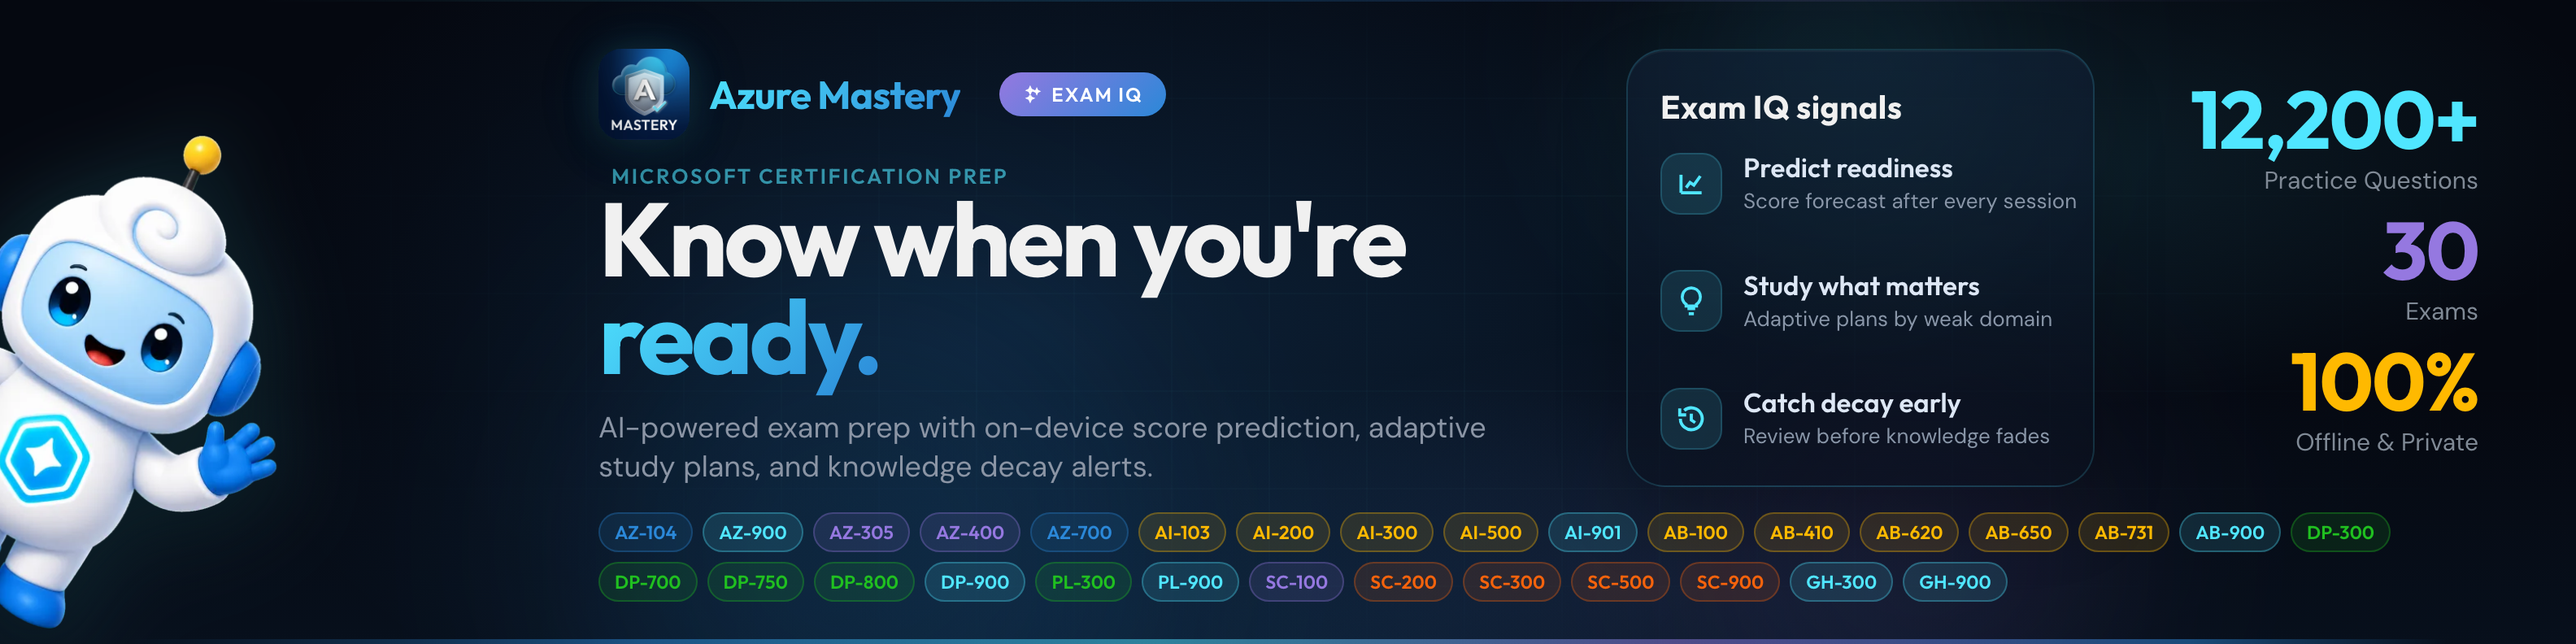
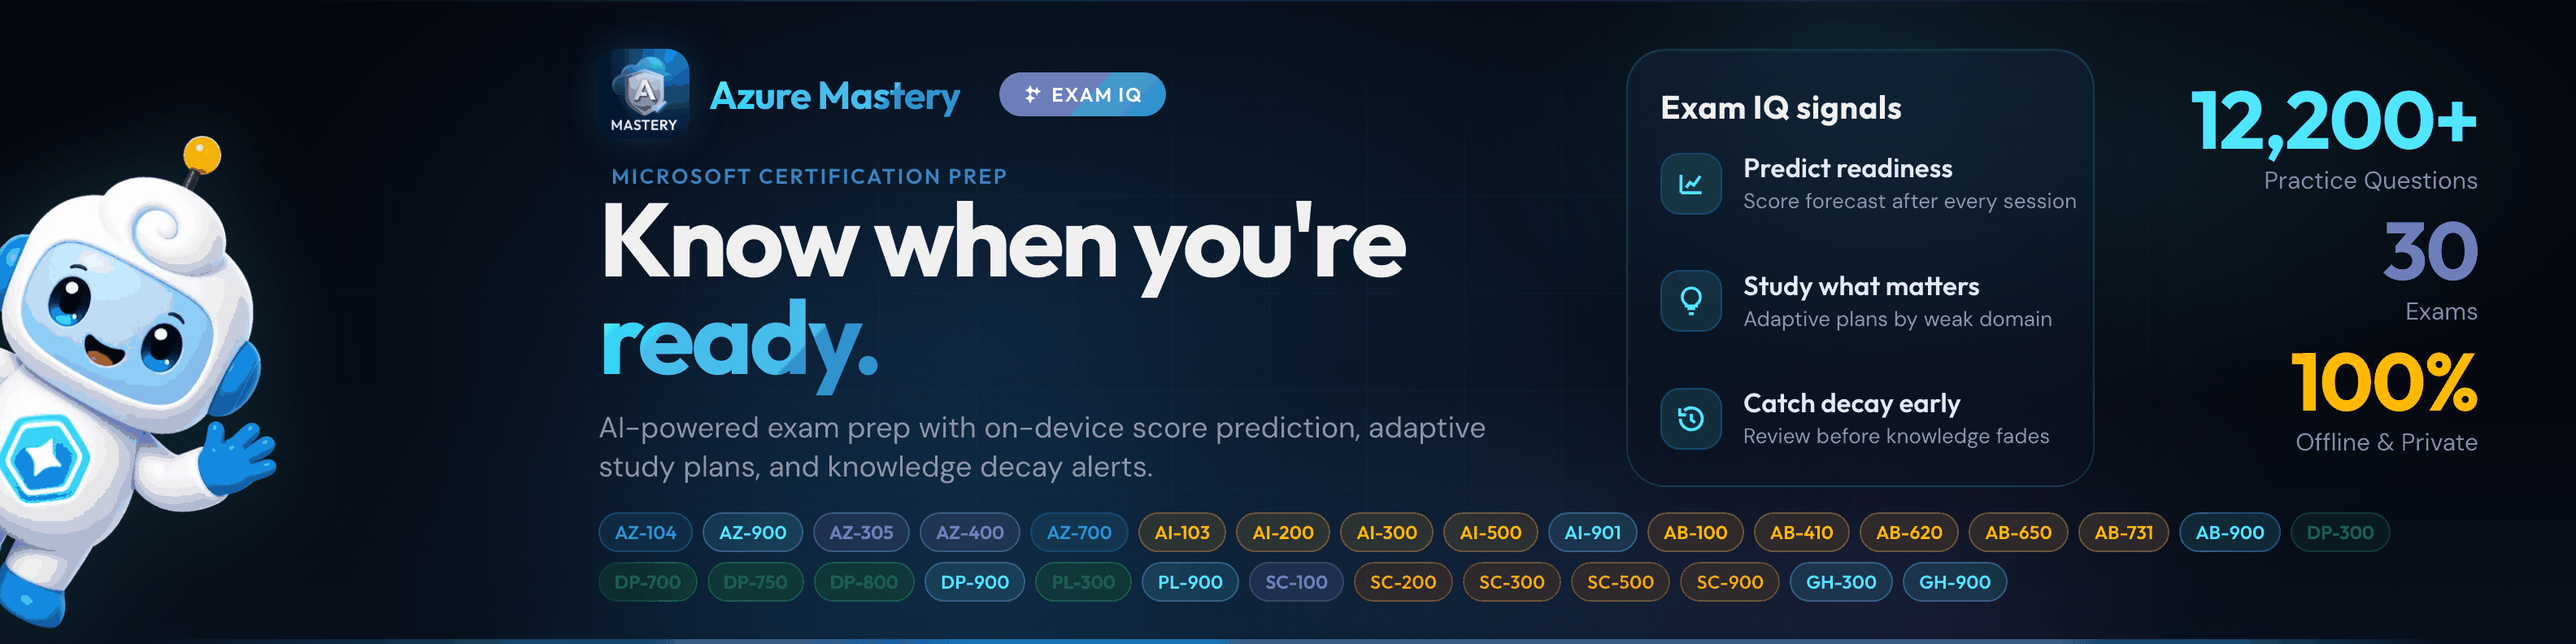
Quantise the two shared social images to shrink their weight
og-image.png and linkedin-banner.png are the og:image for every non-exam
page on the site and were 1.6-1.9 MB PNGs. Add optimise_png() to
sync-marketing-counts.py: quantize to a 256-colour palette after each
Chrome render (RGB via MEDIANCUT+Floyd-Steinberg dither, RGBA via
FASTOCTREE when a render carries alpha -- MEDIANCUT/MAXCOVERAGE cannot
quantize RGBA). Guarded with try/except ImportError so a missing Pillow
only warns and keeps the original PNG; CI never renders, so this adds no
dependency there.

og-image.png: 1,644,043 -> 509,596 bytes (69% smaller).
linkedin-banner.png: 1,892,362 -> 528,280 bytes (72% smaller).

Both re-rendered and re-optimised via --social-only. No visible banding on
either gradient at 256 colours (checked at full size and on a 30x zoomed
gradient strip against the pre-quantised original -- pixel-identical to
the eye). Note: Pillow's quantize() dither parameter only takes effect
when quantizing into an explicit target palette; with method=MEDIANCUT and
no palette= argument (this call), dither has no measurable effect --
verified byte-identical output with and without it, so the two sizes
above are the result regardless of the dither setting. Both PNGs land
above the brief's aspirational 400 KB target; getting under it would need
either a coarser palette (visible banding risk untested below 128 colours)
or pngquant/oxipng, neither installed on this machine.

diff --git a/Tools/sync-marketing-counts.py b/Tools/sync-marketing-counts.py
@@ -602,6 +602,37 @@ def render_png(chrome: str, port: int, html_path: str, png_path: str) -> bool:
     return True
 
 
+def optimise_png(path: str) -> None:
+    """Quantise a freshly-rendered social PNG to a 256-colour palette in place.
+    Chrome's screenshots are full 24-bit RGB/RGBA PNGs; these are mostly a flat
+    gradient plus a few embedded phone screenshots, so a 256-colour palette
+    loses nothing visible while cutting the file to a third of its size or
+    better. No new dependency: Pillow is already a soft requirement of the
+    render path, guarded here exactly like it is everywhere else -- if it is
+    missing, warn and leave the (larger) true-colour PNG in place rather than
+    fail the run."""
+    try:
+        from PIL import Image
+    except ImportError:
+        print(f"  warning: Pillow not installed, cannot optimise "
+              f"{os.path.relpath(path, ROOT)} (pip install pillow)")
+        return
+    before = os.path.getsize(path)
+    im = Image.open(path)
+    if im.mode in ("RGBA", "LA") or (im.mode == "P" and "transparency" in im.info):
+        # MEDIANCUT/MAXCOVERAGE cannot quantize RGBA; FASTOCTREE is the only
+        # alpha-safe method Pillow ships without libimagequant (not installed
+        # on this machine -- see Tooling facts).
+        quantized = im.convert("RGBA").quantize(colors=256, method=Image.Quantize.FASTOCTREE)
+    else:
+        quantized = im.convert("RGB").quantize(
+            colors=256, method=Image.Quantize.MEDIANCUT, dither=Image.Dither.FLOYDSTEINBERG)
+    quantized.save(path, optimize=True)
+    after = os.path.getsize(path)
+    print(f"  optimised   {os.path.relpath(path, ROOT)}: {before:,} -> {after:,} bytes "
+          f"({100 * (1 - after / before):.0f}% smaller)")
+
+
 def _serve_root() -> tuple[http.server.ThreadingHTTPServer, int]:
     """Serve ROOT on an ephemeral localhost port in a daemon thread."""
     class Quiet(http.server.SimpleHTTPRequestHandler):
@@ -630,8 +661,10 @@ def sync_social_images(p: "Patcher", counts: dict, total_label: str,
         return
     httpd, port = _serve_root()
     try:
-        render_png(chrome, port, BANNER_HTML, BANNER_PNG)
-        render_png(chrome, port, OG_HTML, OG_PNG)
+        if render_png(chrome, port, BANNER_HTML, BANNER_PNG):
+            optimise_png(BANNER_PNG)
+        if render_png(chrome, port, OG_HTML, OG_PNG):
+            optimise_png(OG_PNG)
     finally:
         httpd.shutdown()
 
